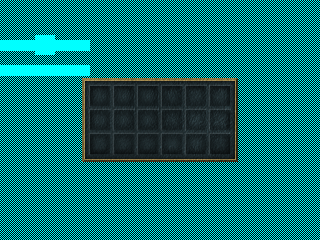
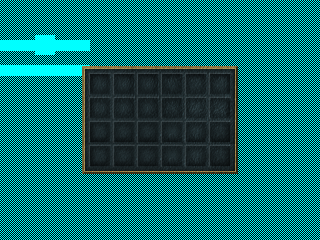
Extra row of bricks in leveleditor.

diff --git a/leveleditor.c b/leveleditor.c
@@ -487,7 +487,7 @@ int runEditor(SDL_Surface* screen)
     //Draw bricks in a 6*4 grid
     int px,py,bnum=BRICKSBEGIN;
     static int brickSelOfX = HSCREENW - 78 + 8;
-    static int brickSelOfY = HSCREENH - 42 + 8;
+    static int brickSelOfY = HSCREENH - 54 + 8;
     for(py=0;py < 4; py++)
     {
       for(px=0; px < 6; px++)
